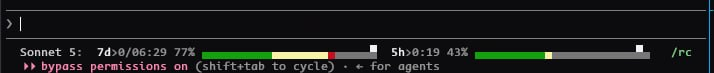
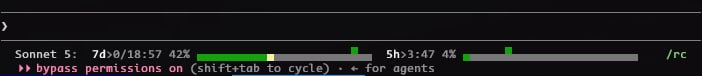
Update screenshot and docs for drift-colored marker
New screenshot shows green markers (comfortable pace) on both bars.
README now explains the diff = time_pct - pct rule behind the
marker's color instead of the old fixed white.

Claude-Session: https://claude.ai/code/session_01R6B9d25pcWmnaisC4UtGZ4

Changed region(s): [[0.0, 0.6027, 0.9274, 1.0], [0.0, 0.0, 1.0, 1.0], [0.0, 0.2192, 0.0299, 0.4384]]

diff --git a/README.md b/README.md
@@ -1,6 +1,6 @@
 # claude-code-limits-statusline
 
-A drop-in `statusLine` script for [Claude Code](https://claude.com/claude-code) that shows your **5-hour** and **7-day** rate-limit usage as two bars — plus a live countdown to each window's reset, and a marker showing how much of the window's *time* has elapsed, so you can tell at a glance whether you're burning quota faster or slower than the clock.
+A drop-in `statusLine` script for [Claude Code](https://claude.com/claude-code) that shows your **5-hour** and **7-day** rate-limit usage as two bars — plus a live countdown to each window's reset, and a marker showing how much of the window's *time* has elapsed, colored green/yellow/red depending on whether that pace is ahead of, in line with, or behind your usage — so you can tell at a glance whether you're burning quota faster or slower than the clock.
 
 ![screenshot of the statusline in a real terminal](screenshot.jpg)
 
@@ -8,20 +8,20 @@ A drop-in `statusLine` script for [Claude Code](https://claude.com/claude-code) 
 Sonnet 5:  7d>0/06:45 76% ▄▄▄▄▄▄▄▄▄▄▄▄▄▄▄▄▄▄▄▄▄▄▄▄▀  5h>2:32 37% ▄▄▄▄▄▄▄▄▄▄▄▄▀▄▄▄▄▄▄▄▄▄▄▄▄
 ```
 
-(in a real terminal the bar is colored green → yellow → red as it fills, and the marker cell is genuinely two-tone: white on top, colored background on the bottom — see "How the marker works" below.)
+(in a real terminal the bar is colored green → yellow → red as it fills, and the marker cell is genuinely two-tone: a drift-colored top half over the usage-colored background on the bottom — green when you're pacing ahead of usage, yellow when you're roughly on pace, red when usage is outrunning the clock — see "How the marker works" below.)
 
 ## What it shows
 
 - **`7d>0/06:45`** — bold label + countdown to the 7-day window reset, `days/HH:MM`.
 - **`76%`** — percentage of that window's quota used (`used_percentage` from the JSON).
-- **the bar** — 25 cells of `▄` (lower-half block), colored green/yellow/red as it fills based on usage%. One cell is replaced by `▀` (upper-half block) in white-on-colored-background: its position marks what **% of the window's time** has already elapsed.
+- **the bar** — 25 cells of `▄` (lower-half block), colored green/yellow/red as it fills based on usage%. One cell is replaced by `▀` (upper-half block): its position marks what **% of the window's time** has already elapsed, and its color shows the drift between that time% and the usage% — green when time is 15+ points ahead of usage (comfortable pace), red when usage is 15+ points ahead of time (burning quota too fast), yellow in between.
 - Same pair of fields for the 5-hour window (`5h>H:MM`).
 
 Comparing the fill (usage) against the single `▀` marker (time) tells you in one glance whether you're ahead of or behind the clock for that window.
 
 ## How the marker works
 
-The marker cell prints `▀` with `ESC[97m` (white foreground) and a background color matching whatever segment it lands on (`ESC[42m` green / `ESC[103m` bright yellow / `ESC[41m` red / `ESC[100m` gray). `▀` only fills the top half of the cell in the foreground color, so the top half renders white while the bottom half shows through as the background color — a two-tone cell without needing two characters.
+The marker's foreground color is picked by comparing `time_pct` (% of the window elapsed) against `pct` (% of quota used): `diff = time_pct - pct`. `diff >= 15` → green (`ESC[32m`), `diff <= -15` → red (`ESC[31m`), otherwise → yellow (`ESC[93m`). It's then drawn as `▀` in that color, with the background set to whatever segment it lands on (`ESC[42m` green / `ESC[103m` bright yellow / `ESC[41m` red / `ESC[100m` gray). `▀` only fills the top half of the cell in the foreground color, so the top half renders in the drift color while the bottom half shows through as the usage-segment background — a two-tone cell without needing two characters.
 
 ## Install
 
